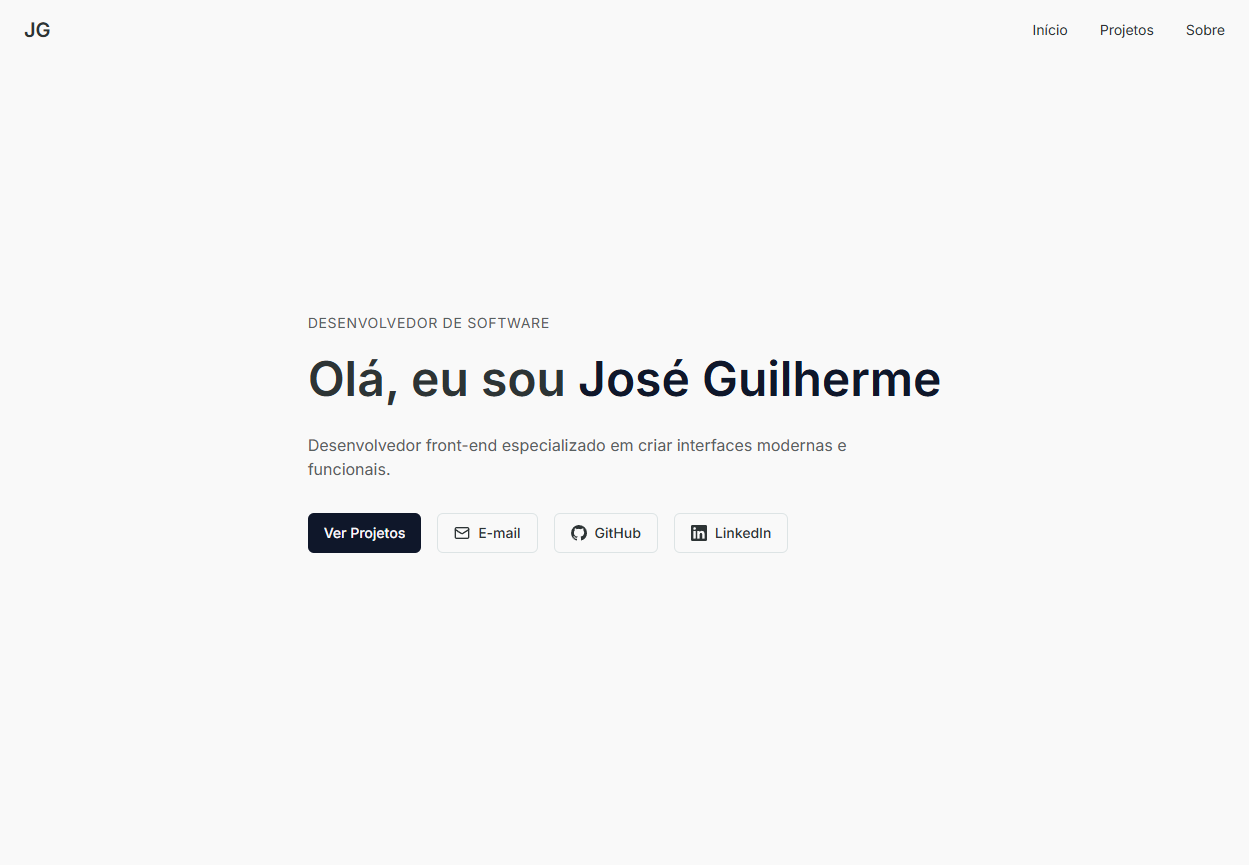
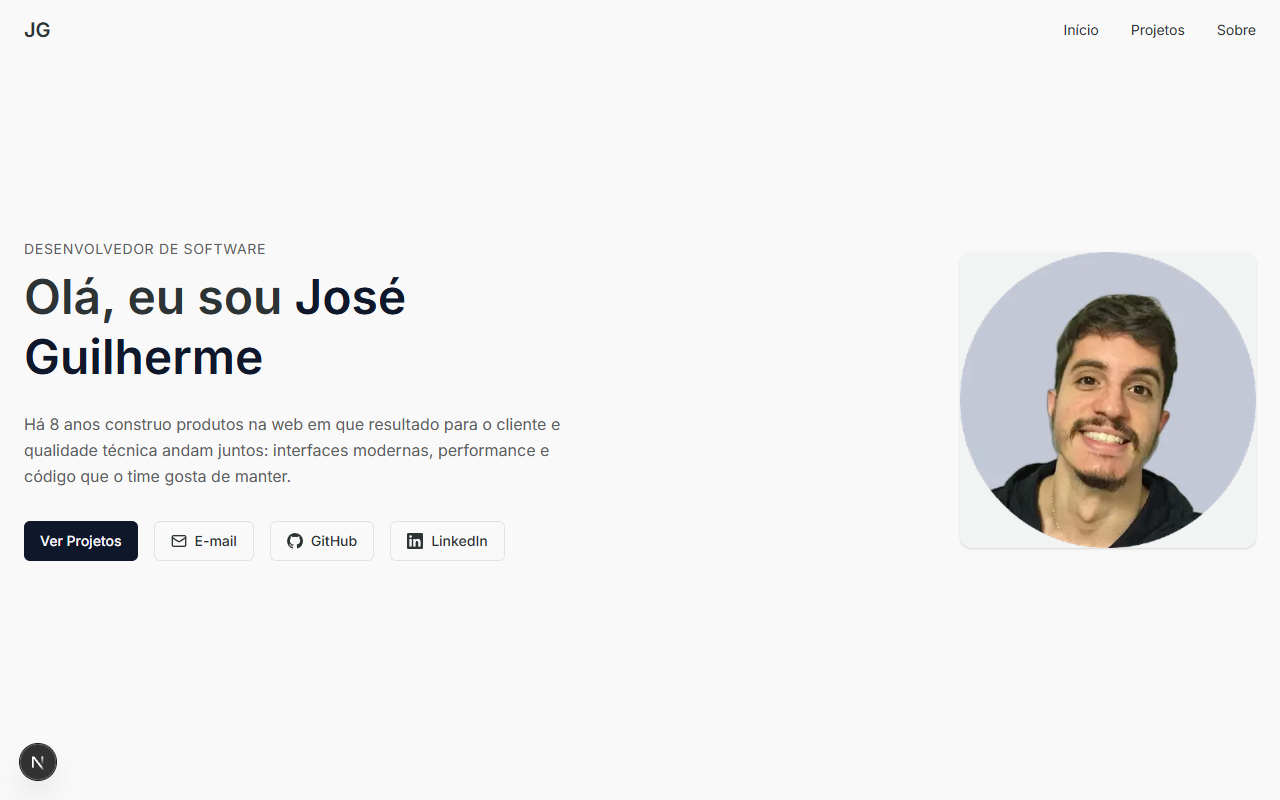
feat: expand backend skills and align project documentation

diff --git a/lib/constants.ts b/lib/constants.ts
@@ -54,11 +54,18 @@ export const SKILLS_CATEGORIES: Record<string, string[]> = {
     'HTML',
     'CSS',
   ],
-  'Back-end': ['API REST', 'GraphQL'],
+  'Back-end': [
+    'API REST',
+    'GraphQL',
+    'Node.js',
+    'SQL',
+    'Docker',
+    'Autenticação e Autorização',
+  ],
   'Qualidade e Testes': ['Jest', 'Testing Library'],
   'Controle de Versão': ['Git (GitFlow)'],
   Design: ['Figma'],
-  Ferramentas: ['VS Code'],
+  Ferramentas: ['VS Code', 'Vercel'],
   Metodologias: ['Scrum', 'Kanban'],
   Idiomas: ['Inglês (Técnico)'],
 }

diff --git a/PRODUCT.md b/PRODUCT.md
@@ -15,11 +15,11 @@ Two primary audiences, both evaluating José Guilherme as a professional and rea
 
 ## Product Purpose
 
-Personal portfolio of José Guilherme (joseguilherme.vercel.app): presents who he is, his 8 years of experience (6 focused on front-end), his skills, and two real client projects so visitors can judge competence and contact him via email, LinkedIn, or GitHub. Success means the visitor assesses capability and initiates contact.
+Personal portfolio of José Guilherme (joseguilherme.vercel.app): presents who he is, his 8 years of experience, his skills (strong front-end with a growing back-end), and two real client projects so visitors can judge competence and contact him via email, LinkedIn, or GitHub. Success means the visitor assesses capability and initiates contact.
 
 ## Positioning
 
-A front-end developer with a wide, production-ready stack (Vue/Nuxt, React/Next, TypeScript) who claims performance, maintainability, and good practices as the work's distinguishing qualities — verified by real client projects shipped to production.
+A software developer with a wide, production-ready front-end stack (Vue/Nuxt, React/Next, TypeScript) who is actively deepening back-end skills (Node.js, SQL, Docker, authentication) and claims performance, maintainability, and good practices as the work's distinguishing qualities — verified by real client projects shipped to production.
 
 ## Operating Context
 

diff --git a/session-handoff.md b/session-handoff.md
@@ -23,3 +23,7 @@ The modular harness is in place for the portfolio app.
 
 - The app is a frontend-only Next.js portfolio with a single home route and a 404 page.
 - Existing screenshot artifacts live under `tests/screenshots/`.
+- 2026-08-11: `lib/constants.ts` `SKILLS_CATEGORIES` updated (Back-end: +Node.js, SQL, Docker, Autenticação e Autorização; Ferramentas: +Vercel). Lint/build verified.
+- 2026-08-11: Docs aligned to current positioning — `PRODUCT.md`, `README.md`/`README-en.md` (description + regenerated `home.png`), `AGENTS.md` (Next.js ^16.3.0).
+- 2026-08-11: `.github/img/home.png` re-captured as viewport-only (1280x800, first visible area, no scroll). `profile.png` untouched.
+- 2026-08-11: `.github/img/home.png` re-captured with scrollbar hidden via injected CSS (`scrollbar-width:none` + `::-webkit-scrollbar{display:none}`).

diff --git a/progress.md b/progress.md
@@ -6,6 +6,8 @@
 
 ## Completed
 
+- Updated `SKILLS_CATEGORIES` in `lib/constants.ts` to match the Sobre narrative: Back-end gained `Node.js`, `SQL`, `Docker`, `Autenticação e Autorização`; Ferramentas gained `Vercel`. Lint + build pass; a11y clean (data-only change).
+- Aligned docs with the current positioning: `PRODUCT.md` (purpose/positioning now "software developer, growing back-end"), `README.md`/`README-en.md` (description updated, screenshot regenerated from live home), `AGENTS.md` (Next.js ^16.3.0).
 - Root `AGENTS.md` converted into a short index.
 - Module docs added next to the detected areas.
 - `feature_list.json` created with frontend UI features.

diff --git a/README.md b/README.md
@@ -12,7 +12,7 @@
 
 ## 💬 Descrição
 
-Este é o meu portfólio online! Sou desenvolvedor front-end especializado em criar interfaces modernas e funcionais. Aqui você pode conhecer um pouco mais sobre mim, meus principais projetos e como entrar em contato.
+Este é o meu portfólio online! Sou desenvolvedor de software especializado em criar interfaces modernas e funcionais, com forte atuação em Front-end e experiência crescente em Back-end. Aqui você pode conhecer um pouco mais sobre mim, meus principais projetos e como entrar em contato.
 
 ## 🚀 Tecnologias
 

diff --git a/README-en.md b/README-en.md
@@ -12,7 +12,7 @@
 
 ## 💬 Description
 
-This is my online portfolio! I'm a front-end developer specialized in creating modern and functional interfaces. Here you can learn more about me, my main projects, and how to get in touch.
+This is my online portfolio! I'm a software developer specialized in creating modern and functional interfaces, with a strong focus on front-end and growing back-end experience. Here you can learn more about me, my main projects, and how to get in touch.
 
 ## 🚀 Technologies
 

diff --git a/AGENTS.md b/AGENTS.md
@@ -20,7 +20,7 @@
 
 ## Tech Stack
 
-- Next.js 16.2.12, React 19, TypeScript 6
+- Next.js ^16.3.0, React 19, TypeScript 6
 - Tailwind CSS v4.3
 - ESLint 10, Prettier, prettier-plugin-tailwindcss
 - shadcn UI components
